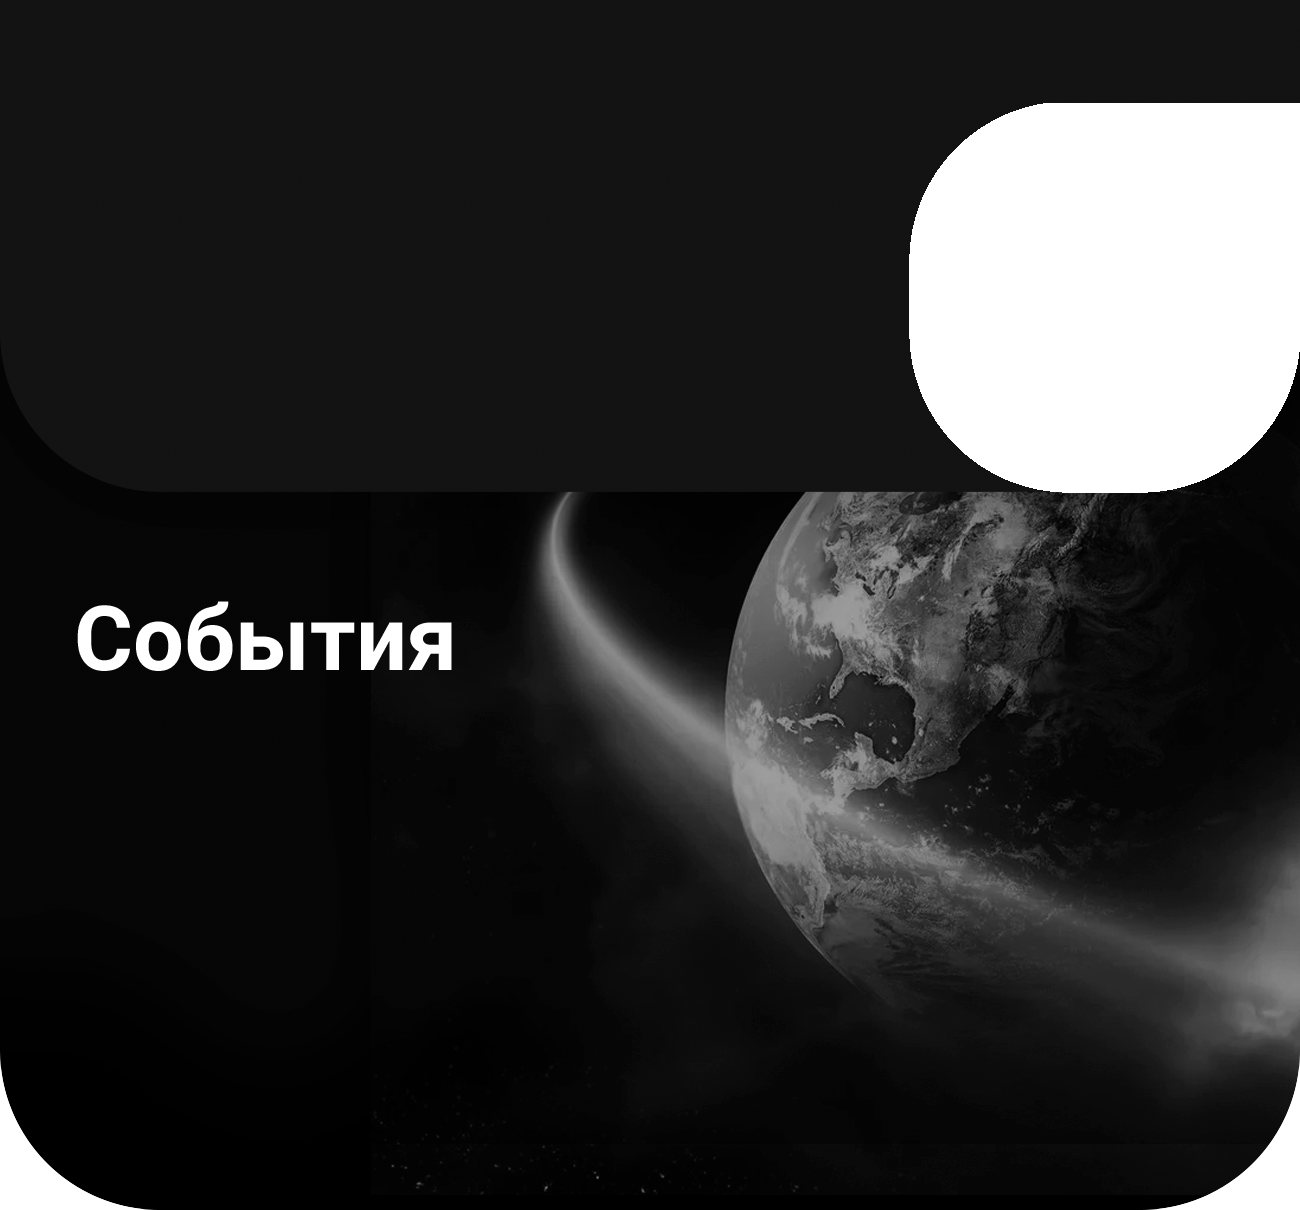
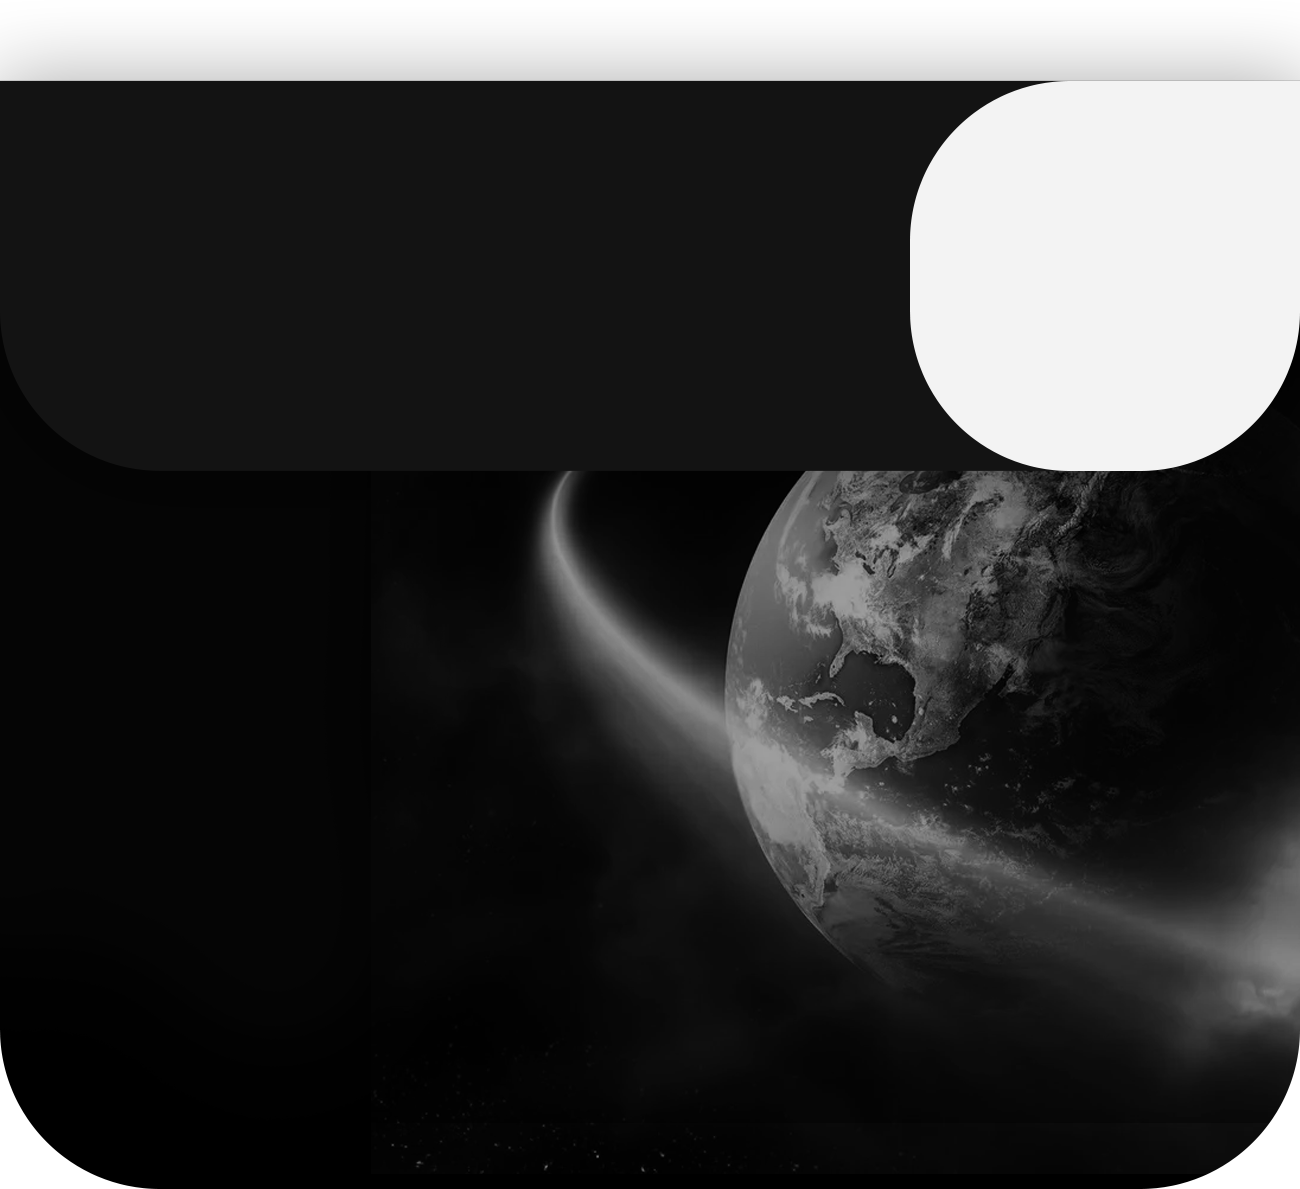
Дизайн

diff --git a/xamarinJKH/Additional/AdditionalPage.xaml b/xamarinJKH/Additional/AdditionalPage.xaml
@@ -9,7 +9,7 @@
     <ContentPage.Content>
         <StackLayout>
             <RelativeLayout HorizontalOptions="CenterAndExpand"
-                            Margin="0,0,0,-120"
+                            Margin="0,0,0,-130"
                             VerticalOptions="Start">
                 <Image x:Name="ImageTop" Margin="0, -26, 0 ,0"
                        RelativeLayout.XConstraint="{ConstraintExpression Type=RelativeToParent,
@@ -76,7 +76,7 @@
                     <StackLayout
                         x:Name="BackStackLayout"
                         Orientation="Horizontal"
-                        Margin="0, 40, 0, 0"
+                        Margin="-2, 35, 0, 0"
                         HorizontalOptions="Start">
                         <Image Source="ic_arrow_back"
                                HeightRequest="15"
@@ -85,6 +85,17 @@
                             Text="Назад "
                             FontSize="15"
                             TextColor="White"
+                            HorizontalOptions="Start" />
+                    </StackLayout>
+                    <StackLayout
+                        Orientation="Horizontal"
+                        Margin="12, 10, 0, 0"
+                        HorizontalOptions="Start">
+                        <Label
+                            Text="Специальные предложения"
+                            FontSize="18"
+                            TextColor="White"
+                            FontAttributes="Bold"
                             HorizontalOptions="Start" />
                     </StackLayout>
                 </StackLayout>

diff --git a/xamarinJKH/Questions/QuestionsPage.xaml b/xamarinJKH/Questions/QuestionsPage.xaml
@@ -10,7 +10,7 @@
     <ContentPage.Content>
         <StackLayout>
             <RelativeLayout
-                Margin="0,0,0,-120"
+                Margin="0,0,0,-130"
                 HorizontalOptions="FillAndExpand">
                 <!-- <Image x:Name="ImageTop" -->
                 <!--        Source="ic_top_event" -->
@@ -88,7 +88,7 @@
                     <StackLayout
                         x:Name="BackStackLayout"
                         Orientation="Horizontal"
-                        Margin="0, 40, 0, 0"
+                        Margin="-2, 35, 0, 0"
                         HorizontalOptions="Start">
                         <Image Source="ic_arrow_back"
                                HeightRequest="15"
@@ -97,6 +97,17 @@
                             Text="Назад "
                             FontSize="15"
                             TextColor="White"
+                            HorizontalOptions="Start" />
+                    </StackLayout>
+                    <StackLayout
+                        Orientation="Horizontal"
+                        Margin="12, 10, 0, 0"
+                        HorizontalOptions="Start">
+                        <Label
+                            Text="Опросы"
+                            FontSize="18"
+                            TextColor="White"
+                            FontAttributes="Bold"
                             HorizontalOptions="Start" />
                     </StackLayout>
                 </StackLayout>

diff --git a/xamarinJKH/Notifications/NotificationsPage.xaml b/xamarinJKH/Notifications/NotificationsPage.xaml
@@ -9,7 +9,7 @@
     <ContentPage.Content>
         <StackLayout>
             <RelativeLayout 
-                Margin="0,0,0,-150"
+                Margin="0,0,0,-125"
                 x:Name="RelativeLayoutTop"
                 HorizontalOptions="FillAndExpand">
                 <!-- <Image x:Name="ImageTop" -->
@@ -88,7 +88,7 @@
                     <StackLayout
                         x:Name="BackStackLayout"
                         Orientation="Horizontal"
-                        Margin="0, 40, 0, 0"
+                        Margin="-2, 35, 0, 0"
                         HorizontalOptions="Start">
                         <Image Source="ic_arrow_back"
                                HeightRequest="15"
@@ -97,6 +97,17 @@
                             Text="Назад "
                             FontSize="15"
                             TextColor="White"
+                            HorizontalOptions="Start" />
+                    </StackLayout>
+                    <StackLayout
+                        Orientation="Horizontal"
+                        Margin="12, 5, 0, 0"
+                        HorizontalOptions="Start">
+                        <Label
+                            Text="Уведомления1"
+                            FontSize="18"
+                            TextColor="White"
+                            FontAttributes="Bold"
                             HorizontalOptions="Start" />
                     </StackLayout>
                 </StackLayout>

diff --git a/xamarinJKH/News/NewsPage.xaml b/xamarinJKH/News/NewsPage.xaml
@@ -87,7 +87,7 @@
                     <StackLayout
                         x:Name="BackStackLayout"
                         Orientation="Horizontal"
-                        Margin="0, 40, 0, 0"
+                        Margin="-2, 35, 0, 0"
                         HorizontalOptions="Start">
                         <Image Source="ic_arrow_back"
                                HeightRequest="15"
@@ -96,6 +96,17 @@
                             Text="Назад "
                             FontSize="15"
                             TextColor="White"
+                            HorizontalOptions="Start" />
+                    </StackLayout>
+                    <StackLayout
+                        Orientation="Horizontal"
+                        Margin="12, 10, 0, 0"
+                        HorizontalOptions="Start">
+                        <Label
+                            Text="Новости"
+                            FontSize="18"
+                            TextColor="White"
+                            FontAttributes="Bold"
                             HorizontalOptions="Start" />
                     </StackLayout>
                 </StackLayout>

diff --git a/xamarinJKH/Main/PaysPage.xaml b/xamarinJKH/Main/PaysPage.xaml
@@ -10,7 +10,7 @@
     <ContentPage.Content>
         <StackLayout>
             <RelativeLayout
-                Margin="0,0,0,-150"
+                Margin="0,0,0,-140"
                 VerticalOptions="Start"
                 HorizontalOptions="FillAndExpand">
                 <Image x:Name="ImageFon"
@@ -75,6 +75,18 @@
                                TextColor="White"
                                Margin="-10, 10, 0, 0"
                                VerticalOptions="Center" />
+                    </StackLayout>
+                    <StackLayout
+                        x:Name="BackStackLayout"
+                        Orientation="Horizontal"
+                        Margin="5, 55, 0, 0"
+                        HorizontalOptions="Start">
+                        <Label
+                            Text="Оплата"
+                            FontSize="25"
+                            TextColor="White"
+                            FontAttributes="Bold"
+                            HorizontalOptions="Start" />
                     </StackLayout>
                 </StackLayout>
                 <Image x:Name="IconViewNameUk"

diff --git a/xamarinJKH/Shop/ShopPage.xaml b/xamarinJKH/Shop/ShopPage.xaml
@@ -109,18 +109,12 @@
             <StackLayout VerticalOptions="FillAndExpand">
                 
                 <CarouselView x:Name="CarouselViewShop"
-                              IndicatorView="indicatorView"
                               PositionChanged="OnPositionChanged">
                     <CarouselView.ItemsLayout>
                         <LinearItemsLayout Orientation="Horizontal"
                                            ItemSpacing="20" />
                     </CarouselView.ItemsLayout>
                 </CarouselView>
-                <IndicatorView x:Name="indicatorView"
-                               IndicatorColor="LightGray"
-                               
-                               SelectedIndicatorColor="DarkGray"
-                               HorizontalOptions="Center" />
                 <StackLayout Orientation="Horizontal" HorizontalOptions="FillAndExpand">
                     <StackLayout HorizontalOptions="StartAndExpand" Padding="10,0,10,10" >
                         <Label Text="Вес:"

diff --git a/xamarinJKH/Main/EventsPage.xaml b/xamarinJKH/Main/EventsPage.xaml
@@ -72,6 +72,18 @@
                                Margin="-10, 10, 0, 0"
                                VerticalOptions="Center" />
                     </StackLayout>
+                    <StackLayout
+                        x:Name="BackStackLayout"
+                        Orientation="Horizontal"
+                        Margin="5, 55, 0, 0"
+                        HorizontalOptions="Start">
+                        <Label
+                            Text="События"
+                            FontSize="25"
+                            TextColor="White"
+                            FontAttributes="Bold"
+                            HorizontalOptions="Start" />
+                    </StackLayout>
                 </StackLayout>
                 <Image x:Name="IconViewNameUk"
                        Source="icon_login"

diff --git a/xamarinJKH/Questions/QuestionsCell.cs b/xamarinJKH/Questions/QuestionsCell.cs
@@ -20,7 +20,7 @@ namespace xamarinJKH.Questions
             frame.VerticalOptions = LayoutOptions.Start;
             frame.BackgroundColor = Color.White;
             frame.Margin = new Thickness(10, 0, 10, 10);
-            frame.Padding = new Thickness(10, 10, 10, 10);
+            frame.Padding = new Thickness(15, 15, 15, 15);
             frame.CornerRadius = 30;
 
             StackLayout container = new StackLayout();
@@ -34,6 +34,8 @@ namespace xamarinJKH.Questions
 
             date.HorizontalOptions = LayoutOptions.Start;
             date.TextColor = Color.Black;
+            date.FontSize = 12;
+            date.Margin = new Thickness(0,-5,0,0);
             StackLayout containerCount = new StackLayout();
             containerCount.Orientation = StackOrientation.Horizontal;
             StackLayout containerOne = new StackLayout();
@@ -43,10 +45,13 @@ namespace xamarinJKH.Questions
 
             countQuestTitle.Text = "Количество вопросов:";
             countQuestTitle.HorizontalOptions = LayoutOptions.Start;
+            countQuestTitle.FontSize = 12;
+            countAnsweredTitle.VerticalOptions = LayoutOptions.Center;
             countQuestTitle.TextColor = Color.Black;
 
             countQuest.TextColor = Color.FromHex(Settings.MobileSettings.color);
             countQuest.HorizontalOptions = LayoutOptions.Start;
+            countQuest.FontSize = 12;
             countQuest.FontAttributes = FontAttributes.Bold;
 
             containerOne.Children.Add(countQuestTitle);
@@ -55,19 +60,37 @@ namespace xamarinJKH.Questions
             countAnsweredTitle.Text = "Количество отвеченных:";
             countAnsweredTitle.TextColor = Color.Black;
             countAnsweredTitle.HorizontalOptions = LayoutOptions.Start;
+            countAnsweredTitle.VerticalOptions = LayoutOptions.Center;
+            countAnsweredTitle.FontSize = 12;
 
             countAnswered.TextColor = Color.FromHex(Settings.MobileSettings.color);
             countAnswered.HorizontalOptions = LayoutOptions.Start;
             countAnswered.FontAttributes = FontAttributes.Bold;
+            countAnswered.FontSize = 12;
             containerTwo.Children.Add(countAnsweredTitle);
             containerTwo.Children.Add(countAnswered);
+            containerTwo.HorizontalOptions = LayoutOptions.End;
 
-            containerCount.Children.Add(containerOne);
-            containerCount.Children.Add(containerTwo);
-
+            Grid grid = new Grid
+            {
+                RowDefinitions =
+                {
+                    new RowDefinition { Height = new GridLength(1, GridUnitType.Star) },
+                },
+                ColumnDefinitions =
+                {
+                    new ColumnDefinition { Width = new GridLength(1, GridUnitType.Star) },
+                    new ColumnDefinition { Width = new GridLength(1, GridUnitType.Star) },
+                }
+            };
+            
+            // containerCount.Children.Add(containerOne);
+            // containerCount.Children.Add(containerTwo);
+            grid.Children.Add(containerOne, 0, 0);
+            grid.Children.Add(containerTwo, 1, 0);
 
             container.Children.Add(date);
-            container.Children.Add(containerCount);
+            container.Children.Add(grid);
 
             Frame frameBtn = new Frame();
             frameBtn.HorizontalOptions = LayoutOptions.FillAndExpand;

diff --git a/xamarinJKH/Notifications/NotificationCell.cs b/xamarinJKH/Notifications/NotificationCell.cs
@@ -20,7 +20,7 @@ namespace xamarinJKH
             frame.VerticalOptions = LayoutOptions.Start;
             frame.BackgroundColor = Color.White;
             frame.Margin = new Thickness(10, 0, 10, 10);
-            frame.Padding = new Thickness(20, 10, 20, 10);
+            frame.Padding = new Thickness(20, 23, 20, 10);
             frame.CornerRadius = 30;
             StackLayout container = new StackLayout();
             container.Orientation = StackOrientation.Vertical;
@@ -37,6 +37,7 @@ namespace xamarinJKH
             more.TextDecorations = TextDecorations.Underline;
             more.TextColor = Color.FromHex(Settings.MobileSettings.color);
             more.HorizontalTextAlignment = TextAlignment.End;
+            more.VerticalOptions = LayoutOptions.Center;
             more.HorizontalOptions = LayoutOptions.EndAndExpand;
             more.MaxLines = 1;
             more.MinimumWidthRequest = 80;
@@ -45,6 +46,8 @@ namespace xamarinJKH
             container.Children.Add(titleContainer);
             date.HorizontalOptions = LayoutOptions.Start;
             date.TextColor = Color.Black;
+            date.VerticalOptions = LayoutOptions.Center;
+            date.Margin = new Thickness(0,-5,0,0);
             container.Children.Add(date);
             text.HorizontalOptions = LayoutOptions.FillAndExpand;
             text.VerticalOptions = LayoutOptions.FillAndExpand;

diff --git a/xamarinJKH/Server/RestClientMP.cs b/xamarinJKH/Server/RestClientMP.cs
@@ -12,9 +12,9 @@ namespace xamarinJKH.Server
 {
     public class RestClientMP
     {
-        public const string SERVER_ADDR = "https://api.sm-center.ru/test_erc_udm"; // Адрес сервера
+        // public const string SERVER_ADDR = "https://api.sm-center.ru/test_erc_udm"; // Адрес сервера
         // public const string SERVER_ADDR = "https://api.sm-center.ru/komfortnew"; // Гранель
-        // public const string SERVER_ADDR = "https://api.sm-center.ru/water"; // Тихая гавань
+        public const string SERVER_ADDR = "https://api.sm-center.ru/water"; // Тихая гавань
         
         public const string LOGIN_DISPATCHER = "auth/loginDispatcher"; // Аутификация сотрудника
         public const string LOGIN = "auth/Login"; // Аунтификация пользователя

diff --git a/xamarinJKH/Apps/AppCell.cs b/xamarinJKH/Apps/AppCell.cs
@@ -53,13 +53,14 @@ namespace xamarinJKH.Apps
             ImageStatus.Foreground = hex;
             ImageStatus.Source = "ic_status_new";
             ImageStatus.HeightRequest = 15;
+            ImageStatus.VerticalOptions = LayoutOptions.End;
             ImageStatus.WidthRequest = 15;
             ImageStatus.Margin = new Thickness(0, 0, 0, 0);
 
             LabelStatus.TextColor = Color.Black;
             LabelStatus.FontSize = 15;
-            LabelStatus.VerticalTextAlignment = TextAlignment.Start;
-            LabelStatus.VerticalOptions = LayoutOptions.Start;
+            LabelStatus.VerticalTextAlignment = TextAlignment.Center;
+            LabelStatus.VerticalOptions = LayoutOptions.Center;
 
 
             // status.Children.Add(ImageStatus);

diff --git a/xamarinJKH/Apps/AppPage.xaml.cs b/xamarinJKH/Apps/AppPage.xaml.cs
@@ -115,6 +115,8 @@ namespace xamarinJKH.Apps
                 }
                 else
                 {
+                    Settings.isSelf = null;
+                    Settings.DateUniq = "";
                     _ = await Navigation.PopAsync();
                 }
             };
@@ -141,6 +143,8 @@ namespace xamarinJKH.Apps
             }
             else
             {
+                Settings.isSelf = null;
+                Settings.DateUniq = "";
                 return base.OnBackButtonPressed();
             }
         }
